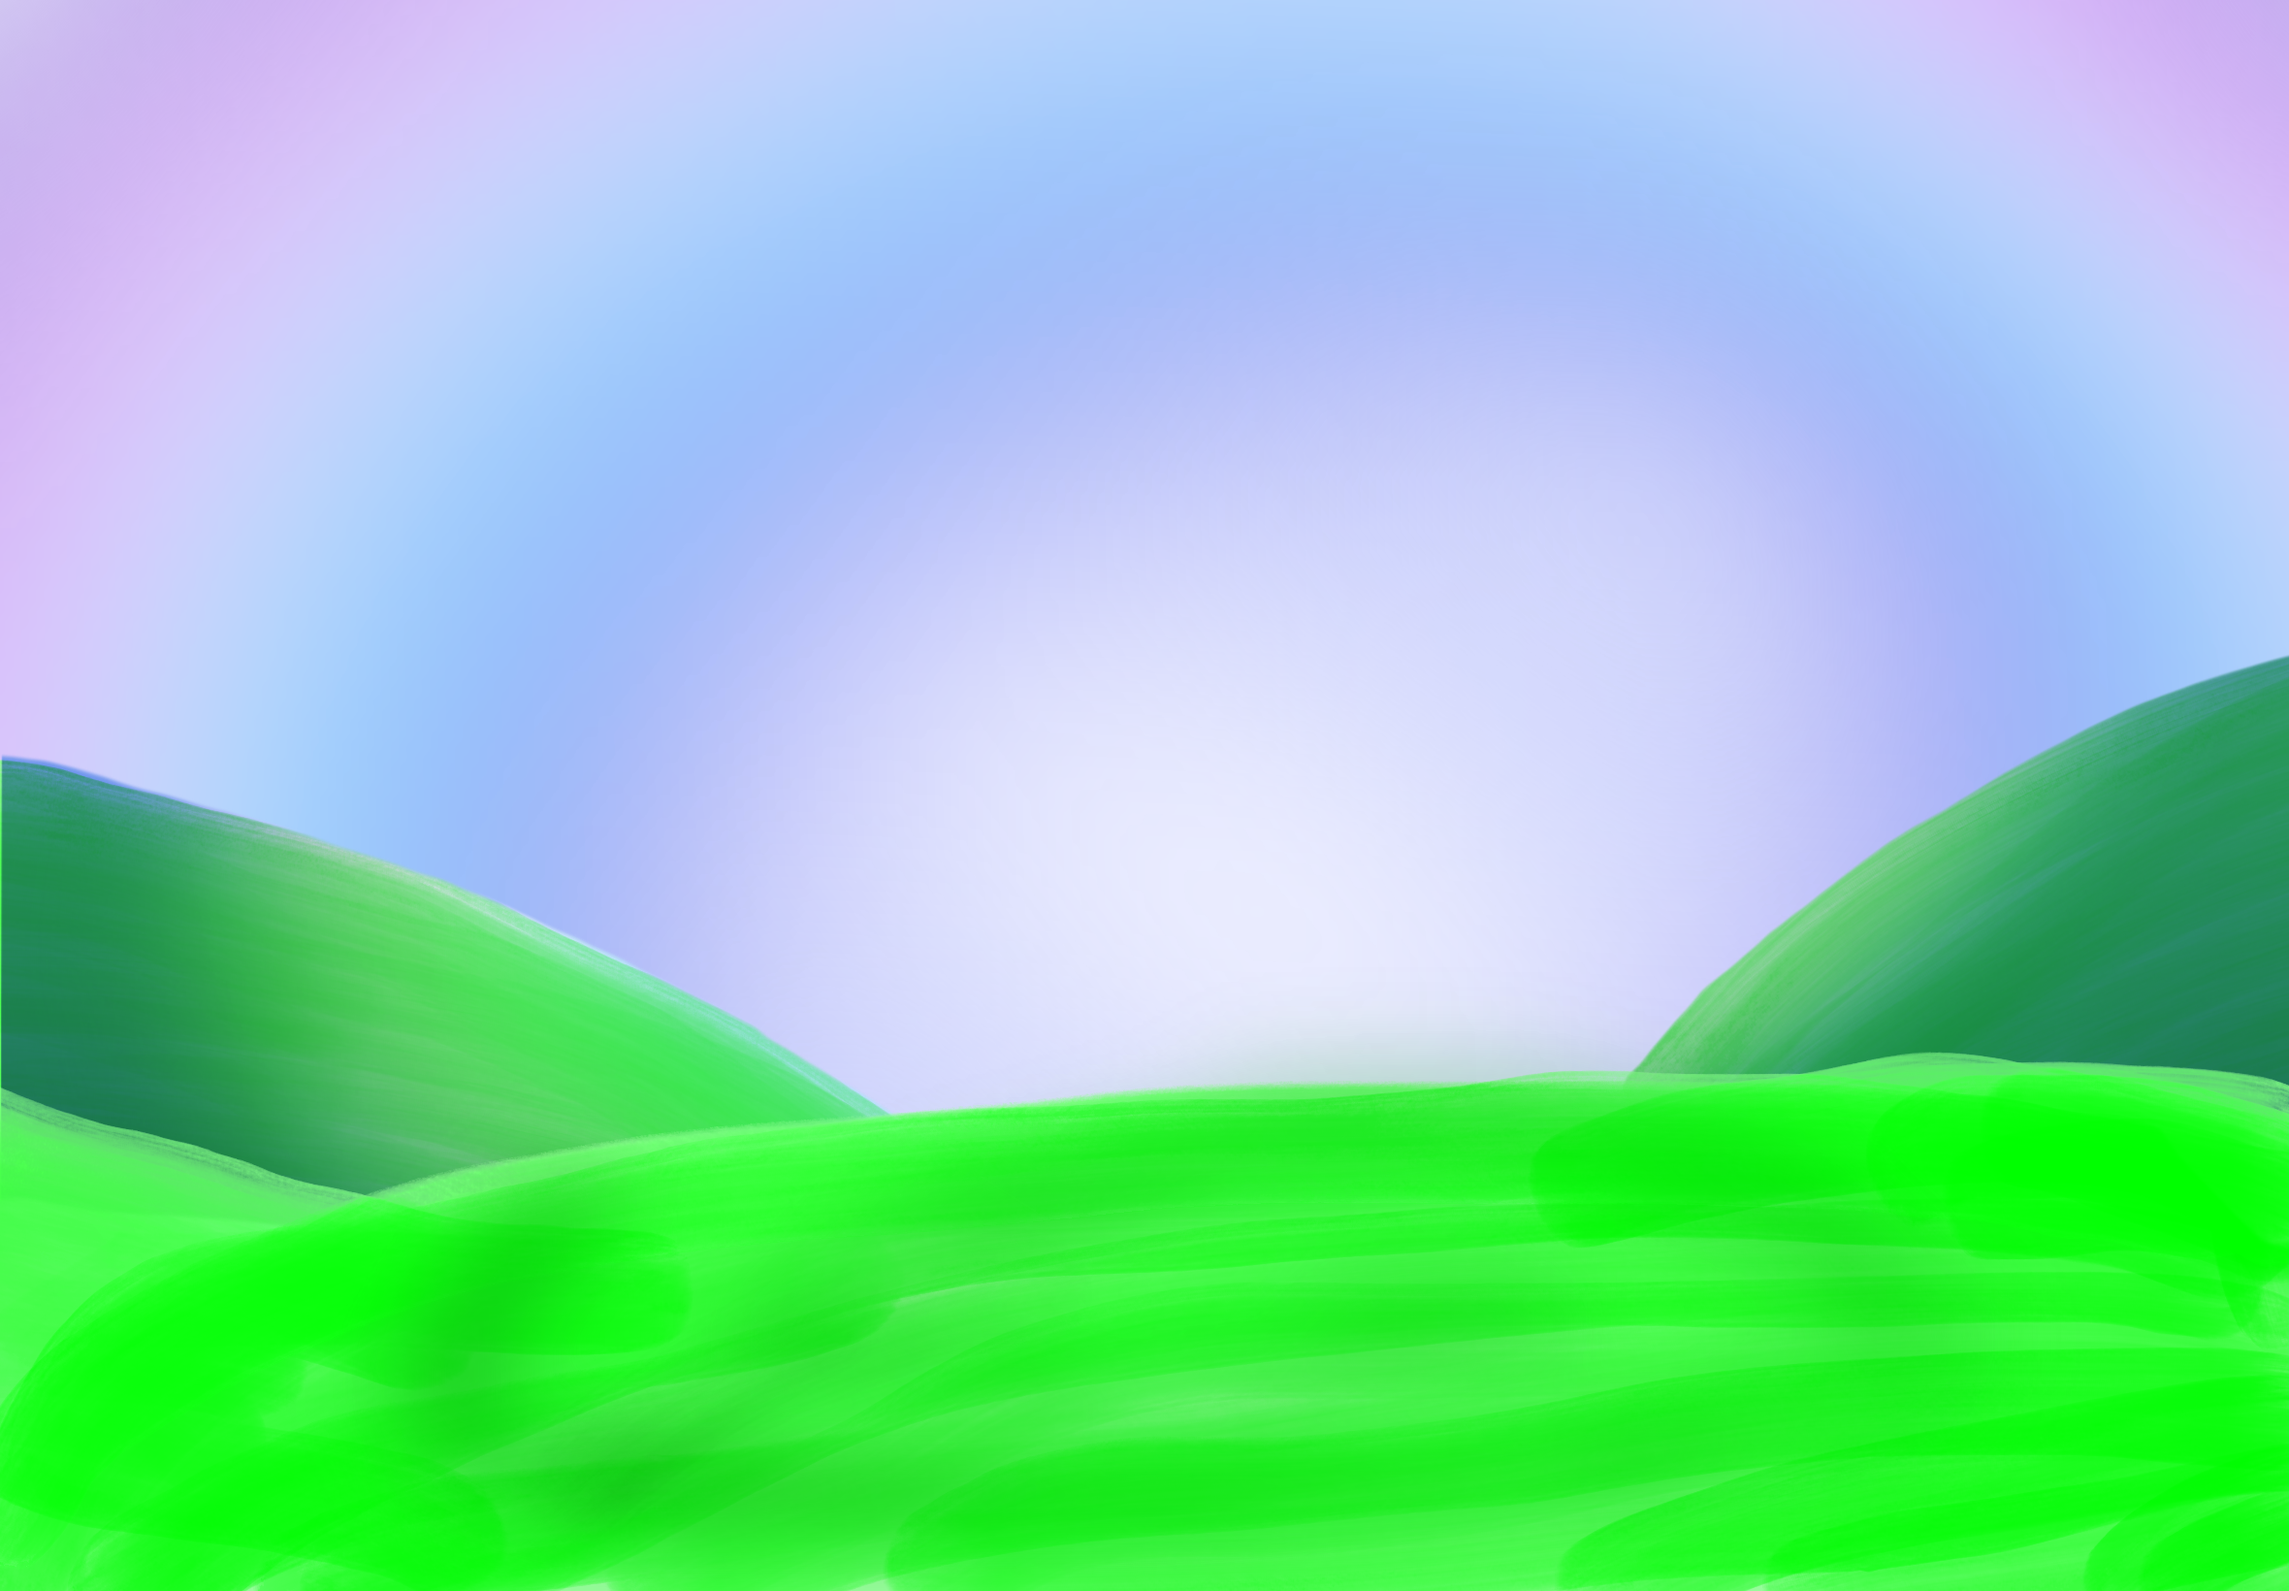
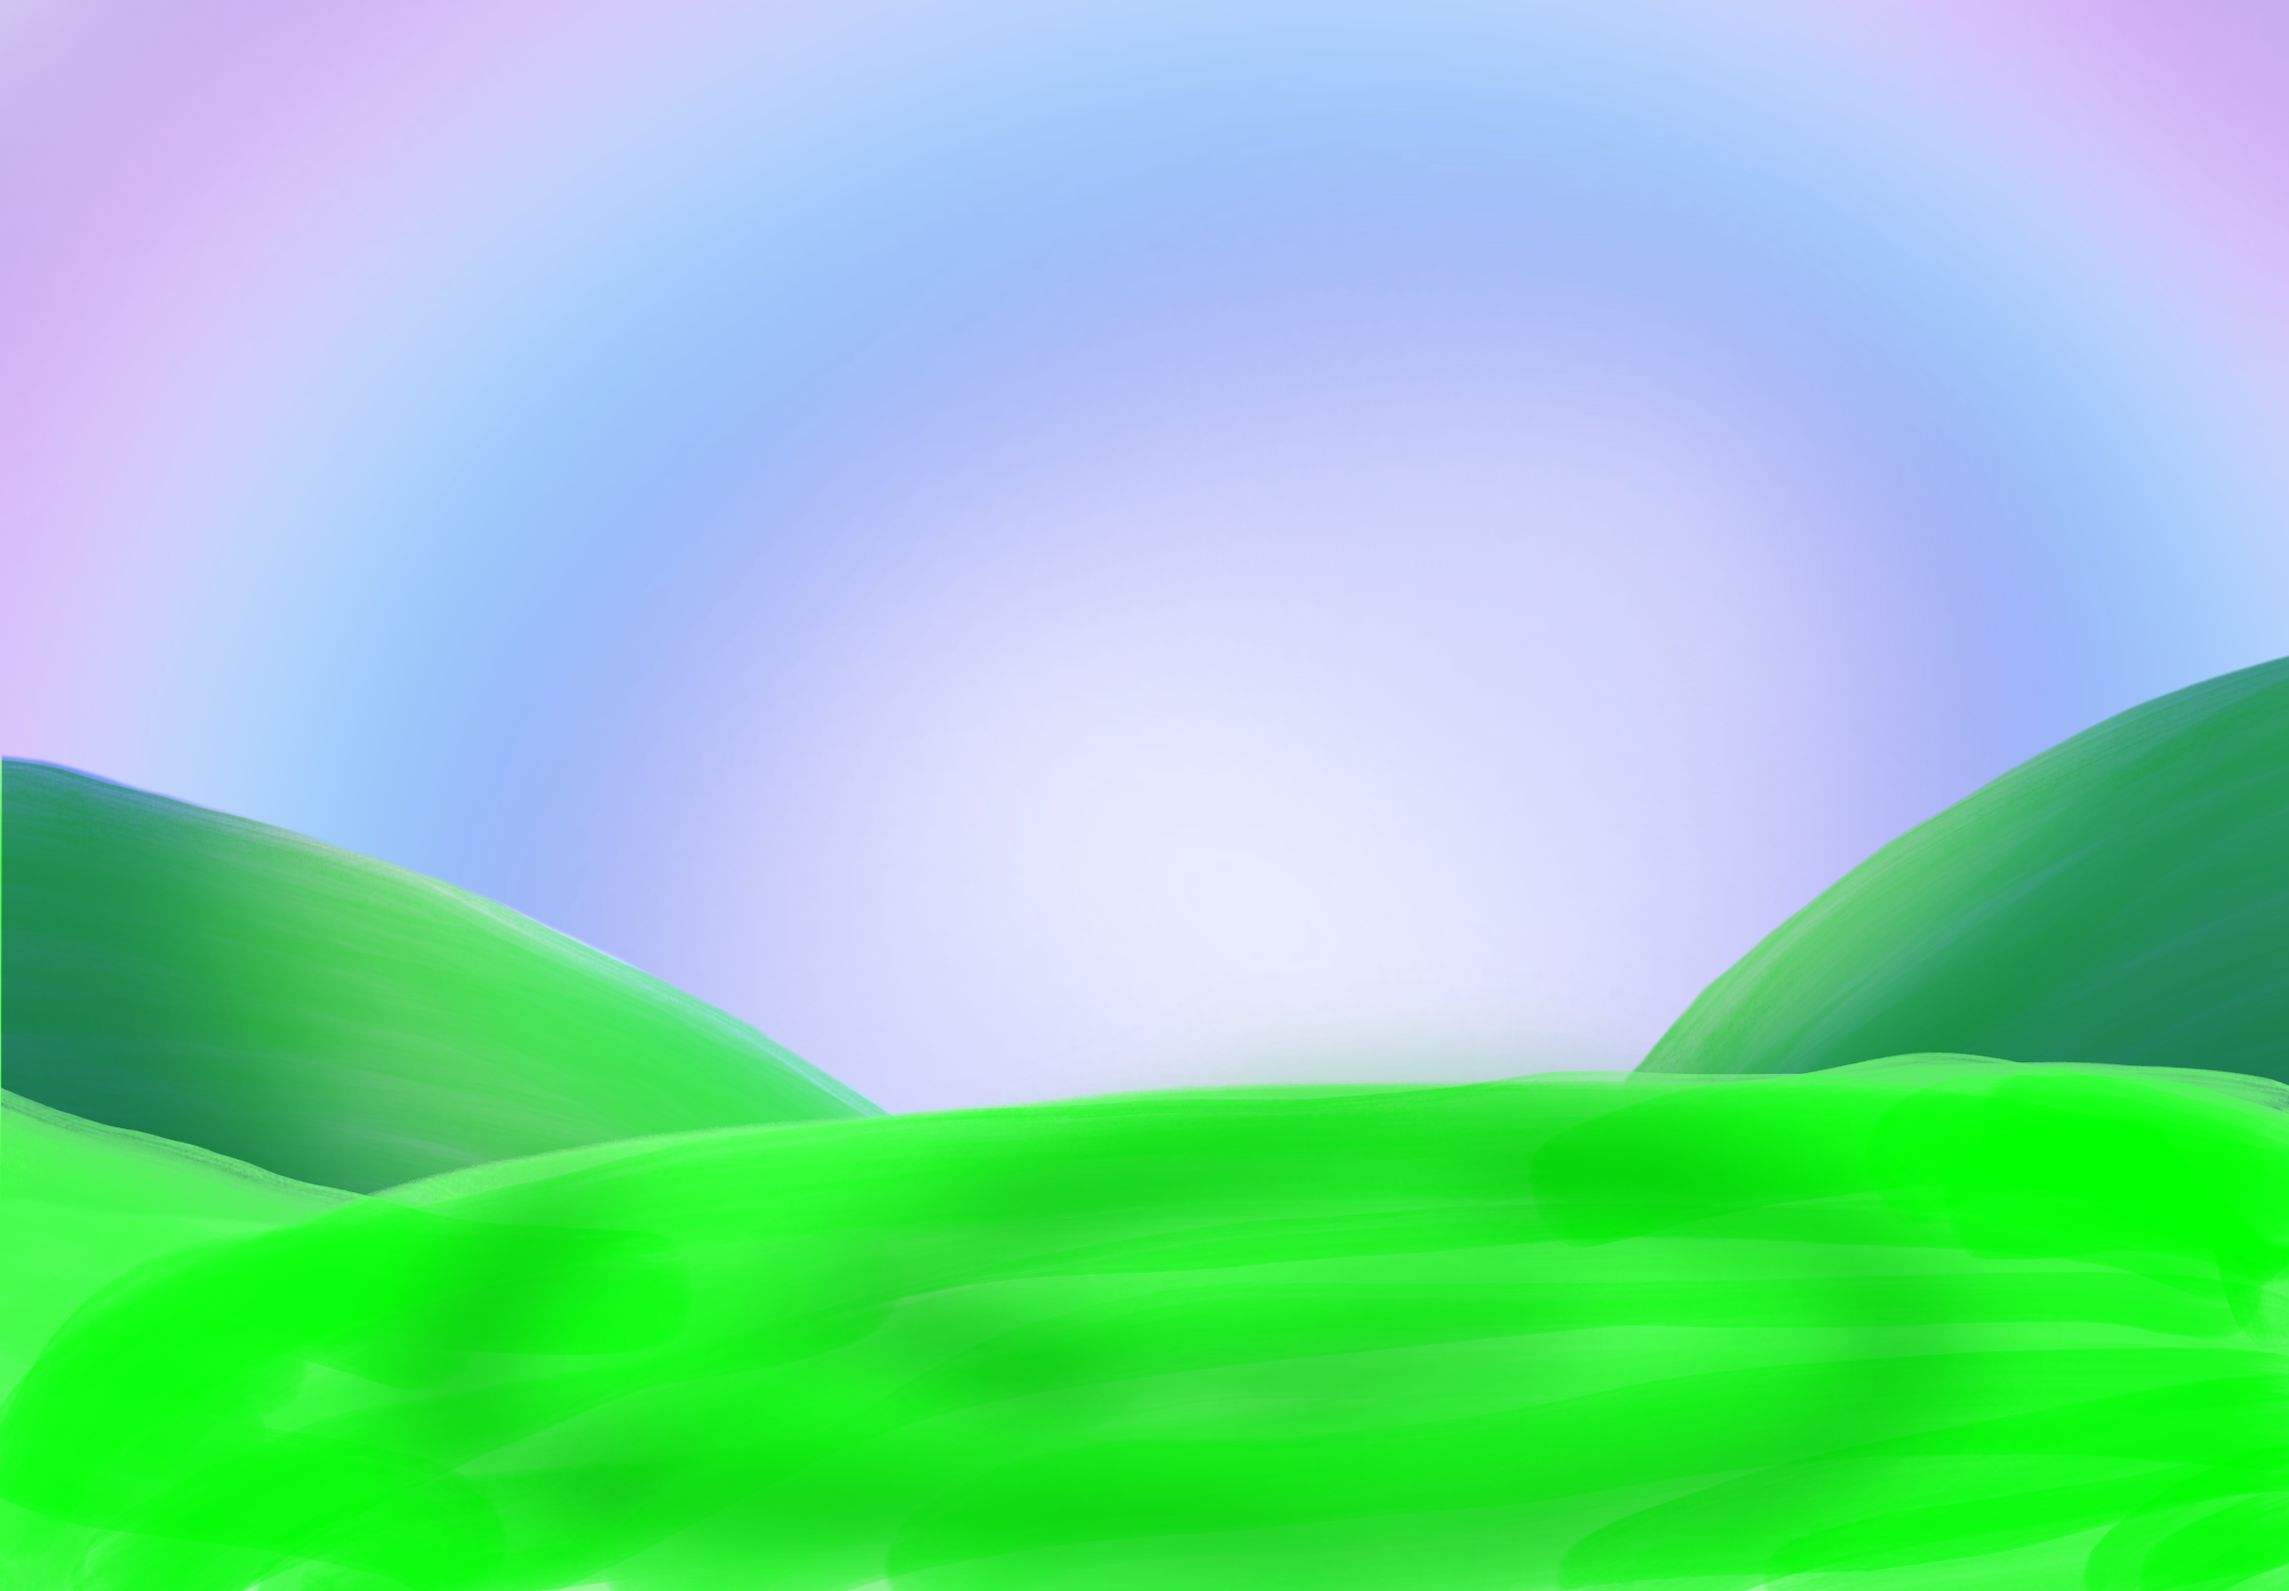
garden

diff --git a/rooms/garden.html b/rooms/garden.html
@@ -176,11 +176,7 @@ html, body {
 
   <!-- Grass ground -->
   <div class="garden-el el-sky">
-    <img src="../assets/elements/sky.png" alt="">
-  </div>
-
-  <div class="garden-el el-grass">
-    <img src="../assets/elements/grass.png" alt="">
+    <img src="../assets/elements/garden-sky.png" alt="">
   </div>
 
  
